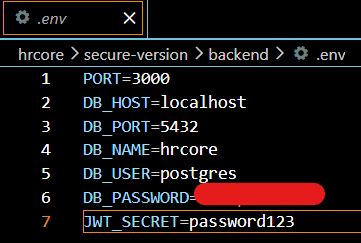
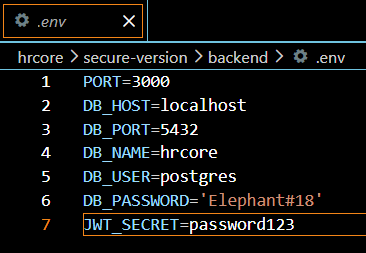
Added screenshots of DB info

diff --git a/hrcore/secure-version/backend/db.js b/hrcore/secure-version/backend/db.js
@@ -5,6 +5,10 @@ require('dotenv').config();
 
 const { Pool } = require('pg');
 
+if(!process.env.DB_HOST || !process.env.DB_PORT || !process.env.DB_NAME || !process.env.DB_USER || !process.env.DB_PASSWORD){
+  throw new Error('Database credentials in environment variables are required!');
+}
+
 const pool = new Pool({
   host: process.env.DB_HOST,
   port: process.env.DB_PORT,

diff --git a/hrcore/security-report/report.md b/hrcore/security-report/report.md
@@ -111,15 +111,32 @@ This document records before/after evidence for each of the 7 intentional vulner
 **PoC (vulnerable):** Modify AsyncStorage `role` to `admin`, reload, access admin screen.
 
 **Before (vulnerable):** [Screenshot — admin panel visible and functional]
-![Screenshot 1](screenshots/EscalateRole1.png "Employee Dashboard")
+![Screenshot](screenshots/EscalateRole1.png "Employee Dashboard")
 
-![Screenshot 2](screenshots/EscalateRole2.png "Employee Role in Storage")
+![Screenshot](screenshots/EscalateRole2.png "Employee Role in Storage")
 
-![Screenshot 3](screenshots/EscalateRole3.png "Role Escalation to Admin")
+![Screenshot](screenshots/EscalateRole3.png "Role Escalation to Admin")
 
-![Screenshot 4](screenshots/EscalateRole4.png "Admin Dashboard")
+![Screenshot](screenshots/EscalateRole4.png "Admin Dashboard")
 
 **After (secure):** [Screenshot — role from JWT only; editing storage has no effect, 403 on admin API]
+
+---
+
+## 8. Harcoded Database Password
+
+**Where:** Password hardcoded in backend/db.js file.
+
+**PoC (vulnerable):** Attacker can access the database with hardcoded password and steal/destroy data.
+
+**Before (vulnerable):** [Screenshot — hardcoded database password]
+![Screenshot](screenshots/DBPassword1.png "Hardcoded Database Info")
+
+![Screenshot](screenshots/DBPassword2.png "Successful Database Login")
+
+
+**After (secure):** [Screenshot — database info stored safely in .env]
+![Screenshot](screenshots/FixedDBInfo.png "Database Info in .env file")
 
 ---
 
